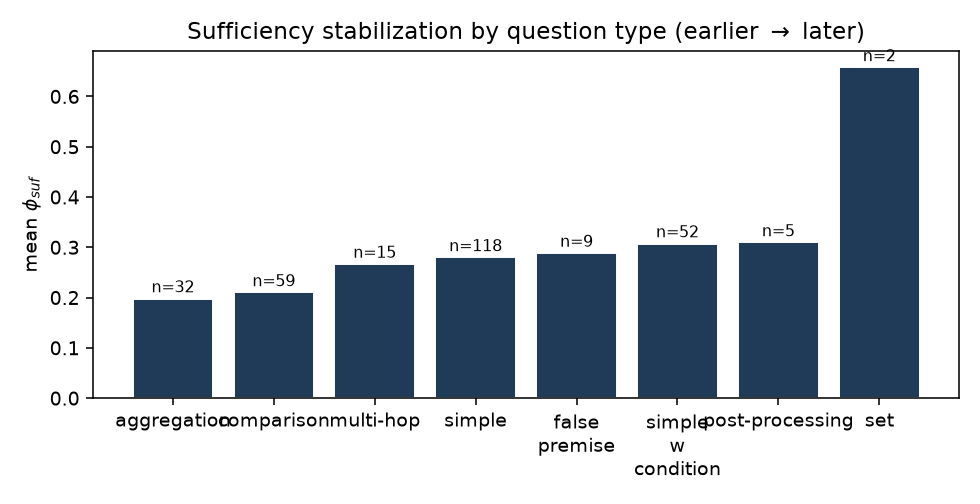
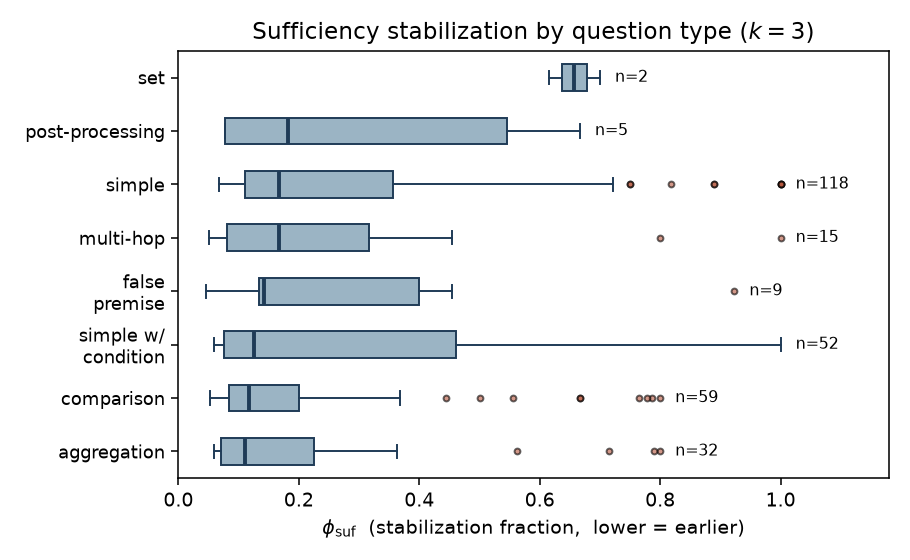
Refactor phi_by_type function to use horizontal boxplot and update figure caption for clarity

diff --git a/paper/results.tex b/paper/results.tex
@@ -52,7 +52,7 @@ early---while self-consistency ($\phi_{\mathrm{sc}}$, light) is late and broad.}
 
 \subsection{RQ4: What predicts early vs.\ late stabilization?}
 Question type is an ordered predictor of $\phi_{\mathrm{suf}}$, spanning a roughly
-threefold range (Table~\ref{tab:bytype}, Fig.~\ref{fig:bytype}). A Kruskal--Wallis
+threefold range (Fig.~\ref{fig:bytype}). A Kruskal--Wallis
 test across all eight types rejects equality of the $\phi_{\mathrm{suf}}$
 distributions ($H{=}\kwAllH{}$, $\mathrm{df}{=}7$, $p{=}\kwAllP{}$); restricting to
 the five classes with $n\ge10$---which carry the effect---the test is stronger
@@ -60,12 +60,12 @@ the five classes with $n\ge10$---which carry the effect---the test is stronger
 significant, is \emph{small}: the rank-based effect size is
 $\varepsilon^2{=}0.04$ (both for all eight types and for the five large classes),
 i.e.\ question type explains on the order of $4\%$ of the rank variance in
-$\phi_{\mathrm{suf}}$. Consistent with a small effect, the bootstrap $95\%$
-confidence intervals in Table~\ref{tab:bytype} overlap substantially for
-adjacent types: the ordering is reliable only at the extremes (\emph{aggregation}
-and \emph{comparison} earliest, \emph{set} latest), not as a strict cell-by-cell
-ranking, and the small-support types (\texttt{set} $n{=}2$, \texttt{post-processing}
-$n{=}5$) have intervals too wide to place. A Dunn's post-hoc with Holm correction
+$\phi_{\mathrm{suf}}$. Consistent with a small effect, the interquartile ranges in Fig.~\ref{fig:bytype}
+overlap substantially for adjacent types: the ordering is reliable only at the
+extremes (\emph{aggregation} and \emph{comparison} earliest, \emph{set} latest),
+not as a strict cell-by-cell ranking, and the small-support types
+(\texttt{set} $n{=}2$, \texttt{post-processing} $n{=}5$) have too few points to
+place reliably. A Dunn's post-hoc with Holm correction
 makes this precise: \emph{no} pairwise contrast survives at $\alpha{=}0.05$ (the
 closest, \texttt{simple} vs.\ \texttt{aggregation}, reaches $p_{\mathrm{Holm}}{=}0.05$).
 The omnibus effect is therefore carried by the overall rank distribution, not by any
@@ -86,34 +86,14 @@ account is carried by the well-populated classes (\texttt{simple},
 \texttt{comparison}, \texttt{aggregation}, \texttt{simple\_w\_condition}), so it
 does not hinge on the noisy small-$n$ cells.
 
-\begin{table}[t]
-\centering
-\caption{Sufficiency stabilization by CRAG question type ($k{=}3$, retrieved-gold
-questions), sorted earliest to latest. The last column is a bootstrap $95\%$ CI for
-the mean ($10{,}000$ resamples); intervals overlap heavily for adjacent types, so
-only the extreme contrasts are reliable.}
-\label{tab:bytype}
-\begin{tabular}{lrrc}
-\toprule
-question type & $n$ & mean $\phi_{\mathrm{suf}}$ & 95\% CI \\
-\midrule
-aggregation          & 32  & 0.198 & [0.13, 0.28] \\
-comparison           & 59  & 0.210 & [0.16, 0.27] \\
-multi-hop            & 15  & 0.267 & [0.14, 0.42] \\
-simple               & 118 & 0.280 & [0.24, 0.33] \\
-false\_premise       & 9   & 0.289 & [0.14, 0.48] \\
-simple\_w\_condition & 52  & 0.307 & [0.23, 0.40] \\
-post-processing      & 5   & 0.310 & [0.10, 0.52] \\
-set                  & 2   & 0.658 & [0.62, 0.70] \\
-\bottomrule
-\end{tabular}
-\end{table}
-
 \begin{figure}[t]
 \centering
 \includegraphics[width=0.92\linewidth]{figures/phi_by_type.png}
-\caption{Mean $\phi_{\mathrm{suf}}$ by question type ($k{=}3$). Type spans a $3\times$
-range, but the ordering tracks entity position, not reasoning complexity.}
+\caption{Distribution of $\phi_{\mathrm{suf}}$ by question type ($k{=}3$, sorted by
+median). The $3\times$ range across medians is real, but box overlaps are large for
+adjacent types---only the extremes (\emph{aggregation}/\emph{comparison} earliest,
+\emph{set} latest) are reliably ordered. Ordering tracks entity position, not
+reasoning complexity.}
 \label{fig:bytype}
 \end{figure}
 

diff --git a/make_figures.py b/make_figures.py
@@ -53,21 +53,34 @@ def fig_phi_distribution(rows):
 
 
 # --------------------------------------------------------------------------- #
-# Fig 2: phi_suf by question type (k=3), sorted, with counts                   #
+# Fig 2: phi_suf by question type (k=3), horizontal boxplot, sorted by median  #
 # --------------------------------------------------------------------------- #
-def fig_phi_by_type(summary):
-    rq4 = summary["rq4_phi_suf_by_question_type"]
-    items = sorted(rq4.items(), key=lambda kv: kv[1]["mean_phi_suf"])
-    labels = [k.replace("_", "\n") for k, _ in items]
-    means = [v["mean_phi_suf"] for _, v in items]
-    counts = [v["n"] for _, v in items]
-    fig, ax = plt.subplots(figsize=(7, 3.6))
-    bars = ax.bar(labels, means, color=NAVY, edgecolor="white")
-    for b, c in zip(bars, counts):
-        ax.text(b.get_x() + b.get_width() / 2, b.get_height() + 0.005,
-                f"n={c}", ha="center", va="bottom", fontsize=8)
-    ax.set_ylabel(r"mean $\phi_{suf}$")
-    ax.set_title("Sufficiency stabilization by question type (earlier $\\to$ later)")
+def fig_phi_by_type(rows):
+    from collections import defaultdict
+    by_type = defaultdict(list)
+    for r in rows:
+        v = fnum(r.get("phi_suf"))
+        if v is not None:
+            by_type[r["question_type"]].append(v)
+    items = sorted(by_type.items(), key=lambda kv: sorted(kv[1])[len(kv[1]) // 2])
+    labels = [k.replace("simple_w_condition", "simple w/\ncondition").replace("_", "\n") for k, _ in items]
+    data = [v for _, v in items]
+    counts = [len(v) for _, v in items]
+    fig, ax = plt.subplots(figsize=(6.5, 4.0))
+    bp = ax.boxplot(data, orientation="horizontal", patch_artist=True,
+                    boxprops=dict(facecolor="#9bb4c4", color=NAVY),
+                    medianprops=dict(color=NAVY, linewidth=2),
+                    whiskerprops=dict(color=NAVY),
+                    capprops=dict(color=NAVY),
+                    flierprops=dict(marker="o", markerfacecolor=RUST,
+                                   markersize=3, alpha=0.6, linestyle="none"))
+    ax.set_yticks(range(1, len(labels) + 1))
+    ax.set_yticklabels(labels, fontsize=9)
+    for i, (c, d) in enumerate(zip(counts, data), 1):
+        ax.text(max(d) + 0.025, i, f"n={c}", va="center", fontsize=8)
+    ax.set_xlabel(r"$\phi_{\mathrm{suf}}$  (stabilization fraction,  lower = earlier)")
+    ax.set_title("Sufficiency stabilization by question type ($k{=}3$)")
+    ax.set_xlim(0, 1.18)
     fig.tight_layout()
     fig.savefig(f"{FIGS}/phi_by_type.png", dpi=140)
     plt.close(fig)
@@ -165,7 +178,7 @@ def main():
     with open(f"{RESULTS}/stab_k3.summary.json") as f:
         summary_k3 = json.load(f)
     fig_phi_distribution(rows_k3)
-    fig_phi_by_type(summary_k3)
+    fig_phi_by_type(rows_k3)
     fig_rq2_surface(summary_k3)
     rows_by_L = {}
     for L, path in [(600.0, f"{RESULTS}/latency_k3.csv"),